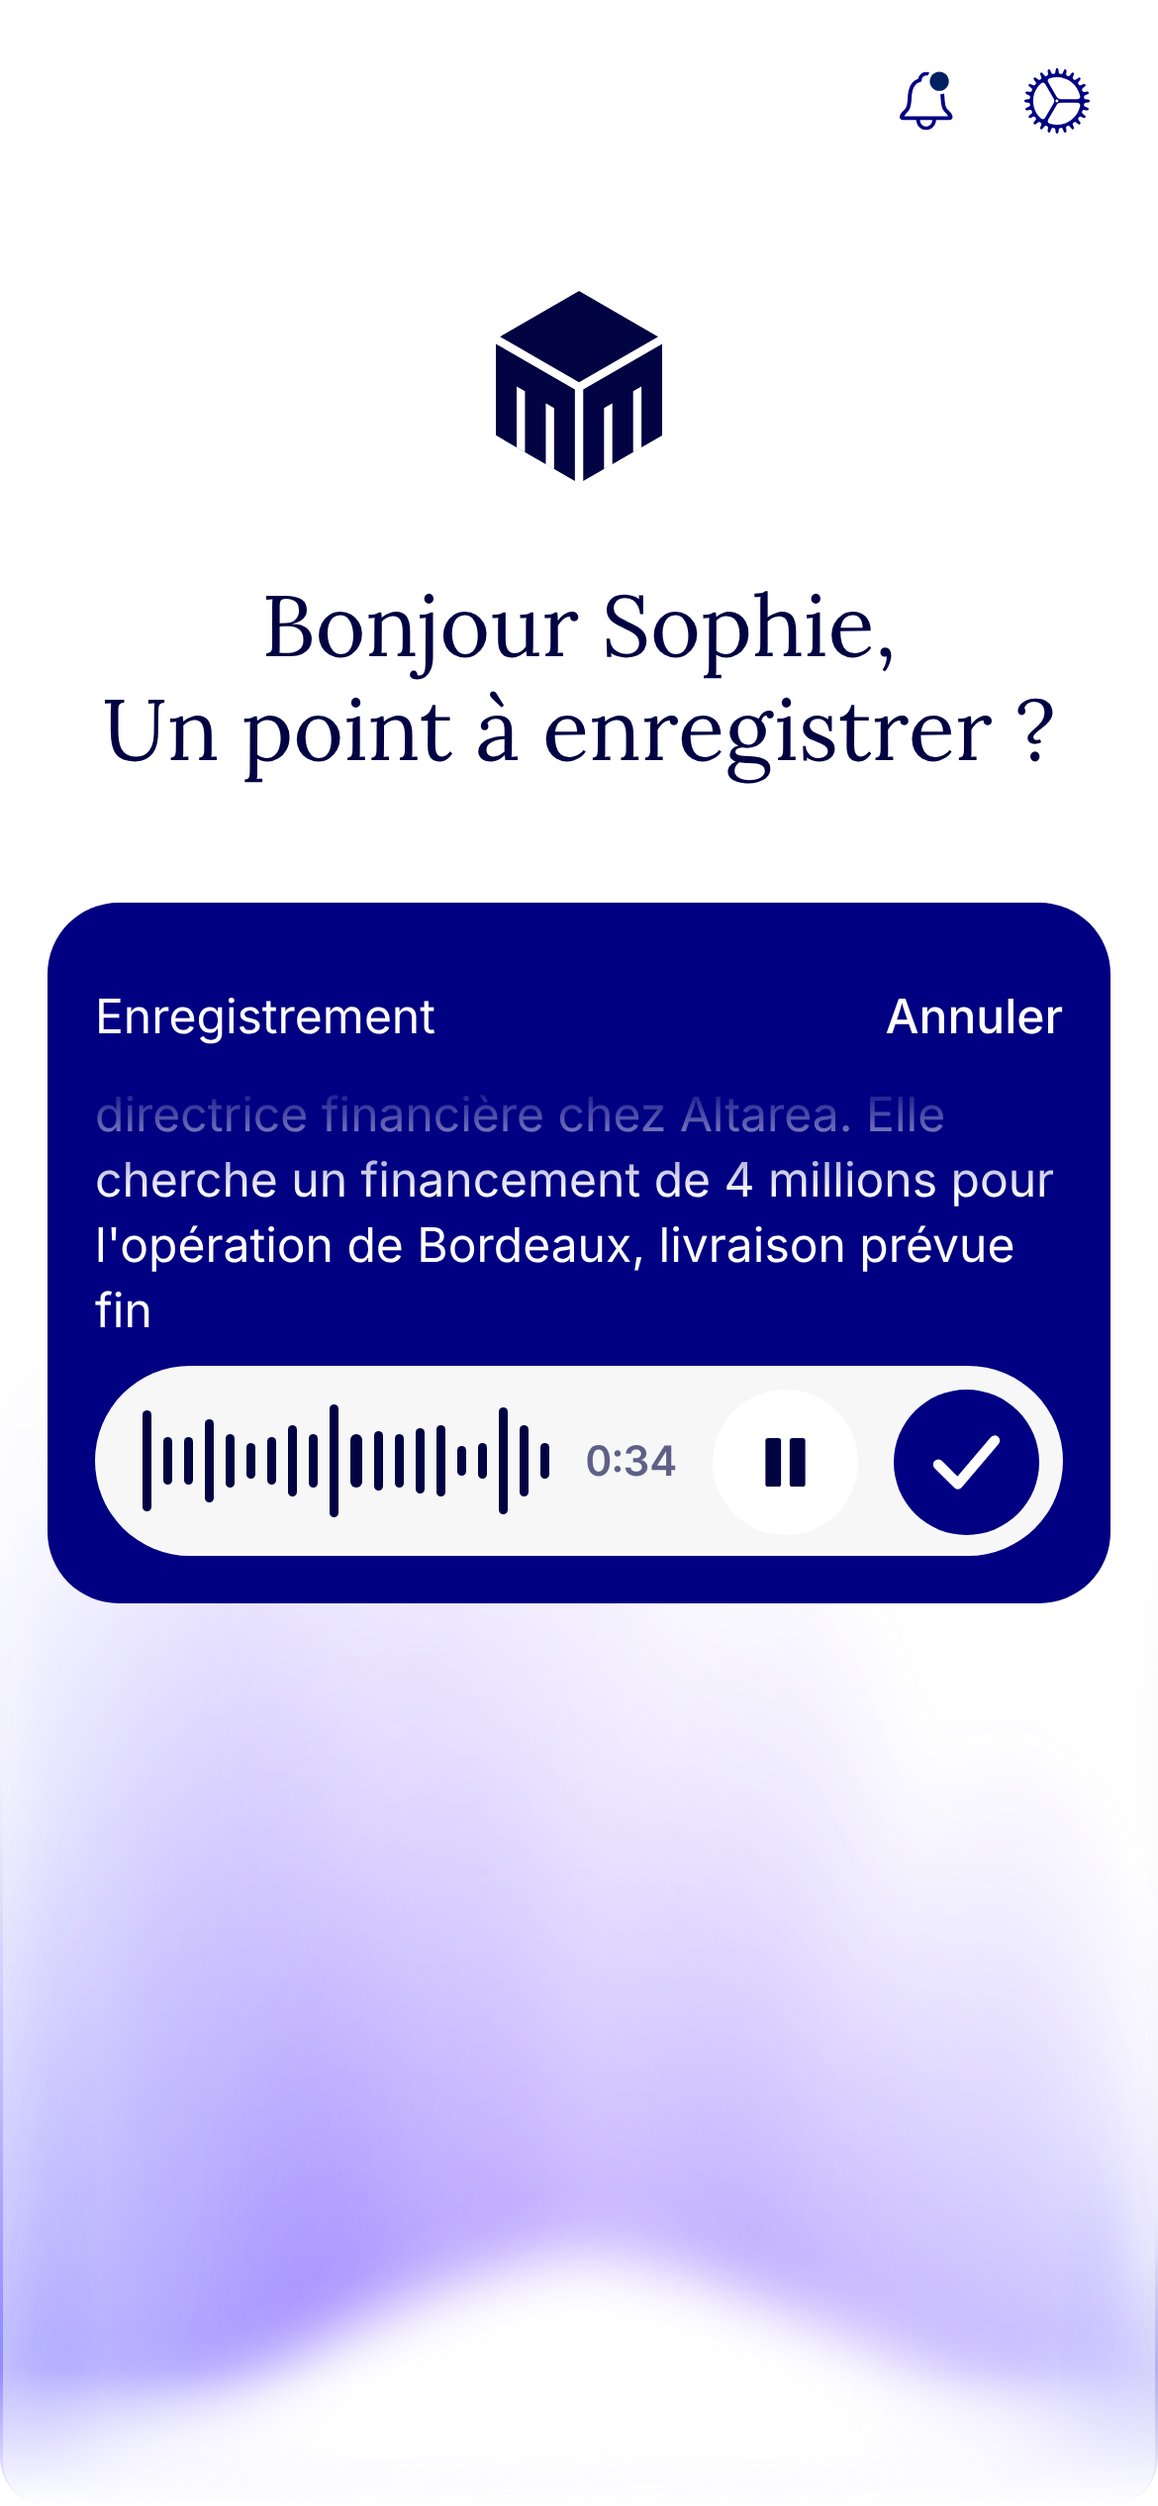
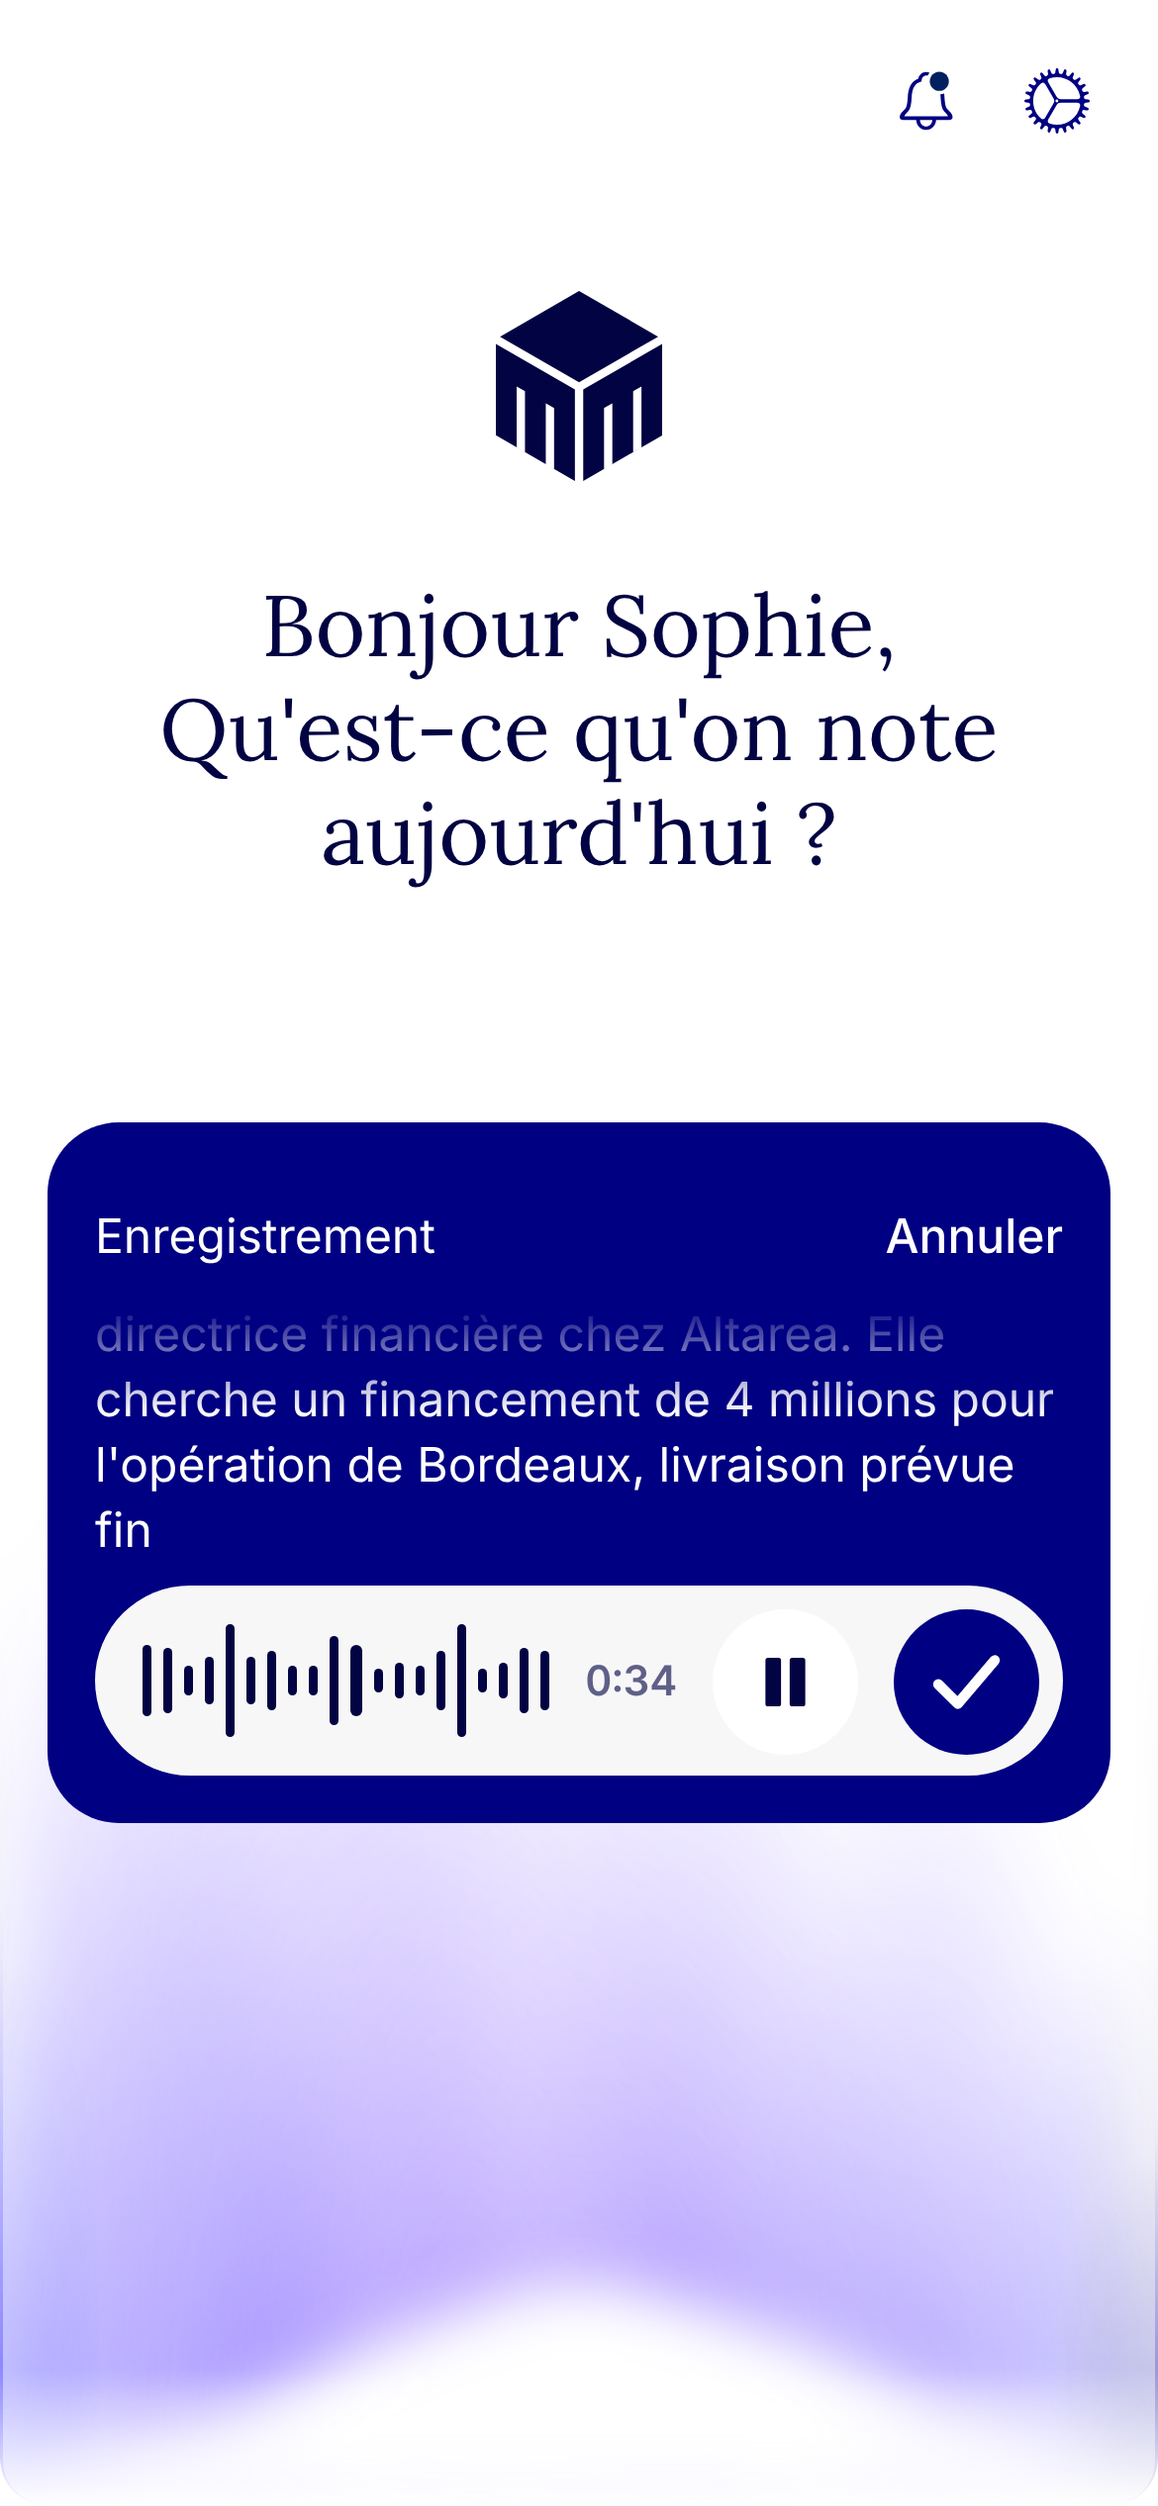
Accueil : micro dans le flux de la page, ouverture fluide, zone sûre réévaluée
Micro sur le titre : le bouton était fixe, placé par script d'après la
taille mesurée du titre ; tout ce qui change cette taille après la mesure
(police arrivée en retard, barres de Safari, retour sur la page) le
mettait sur le titre. Il est maintenant dans le flux, sous le titre :
rien n'est mesuré, le chevauchement n'est plus possible. L'espace libre
est partagé 1/4 au-dessus, 3/4 en dessous, pour qu'il reste haut.

Ouverture bloquée sur « Ouverture du micro » : le panneau grandissait en
width/height, des animations du thread principal, que le démarrage du
micro bloque parfois des secondes sur iPhone ; le texte, lui, apparaissait
(opacity, hors du thread principal) dans le cercle de 96 px. Le panneau
est désormais à sa taille dès le départ et s'ouvre en transform et
opacity seulement ; son contenu n'apparaît qu'avec lui. La lumière est
montée une fois le panneau ouvert.

Boutons sous l'heure dans l'app installée : la compensation de la zone
sûre n'était évaluée qu'au lancement ; elle l'est à chaque changement de
mise en page, et plusieurs fois dans les premières secondes.

Claude-Session: https://claude.ai/code/session_019kEgtLQiVLKPHsKT9P7op1

diff --git a/src/screens/RecordScreen.tsx b/src/screens/RecordScreen.tsx
@@ -1,4 +1,4 @@
-import { useEffect, useLayoutEffect, useMemo, useRef, useState } from "react";
+import { useEffect, useMemo, useState } from "react";
 import { createPortal } from "react-dom";
 import { VoiceBeam } from "voice-glow";
 import { Icon } from "@/components/icon";
@@ -36,30 +36,8 @@ const BEAM_DENSITY = {
   idle: 0.26,
 } as const;
 
-// The microphone is fixed, so it can grow into the recording panel in place;
-// its centre is computed rather than left to the middle of the window. On a
-// short window — a desktop browser, a phone in landscape — the middle of the
-// window is inside the greeting, and the button covered it.
-const BUTTON = 96;
-/** The open panel's height, as in index.css (.record-morph[data-open]). */
-const PANEL = 236;
-const GAP = 16;
-
-/**
- * Where the button's centre goes: the middle of the screen, as long as that
- * keeps it clear of the greeting and leaves the open panel room to fit.
- * The middle of the space under the greeting put it far down once that space
- * ran to the bottom of the screen.
- */
-function placeButton(greeting: HTMLElement | null): number {
-  const height = window.innerHeight;
-  const top = greeting ? greeting.getBoundingClientRect().bottom + greeting.closest(".t-page")!.scrollTop : 0;
-  const highest = top + GAP + BUTTON / 2;
-  const lowest = height - GAP - PANEL / 2;
-  // No room at all: under the greeting, whatever is below. The greeting is
-  // what the button must not hide.
-  return Math.max(highest, Math.min(height / 2, lowest));
-}
+/** The panel's opening, as in index.css (.record-panel). */
+const OPEN_MS = 420;
 
 const PROMPTS = ["Qu'est-ce qu'on note aujourd'hui ?", "Un point à enregistrer ?", "Une info à enregistrer ?"];
 
@@ -92,8 +70,6 @@ export function RecordScreen({
   // not interrupted by this — it holds and resumes on its own (use-recorder).
   const connectivity = useConnectivity(active);
 
-  const greetingRef = useRef<HTMLDivElement>(null);
-  const [centre, setCentre] = useState<number | null>(null);
   const blocked = !open && !recording && connectivity.status !== "online" && connectivity.status !== "checking";
   // While a bad link is being checked again, the screen stays on what it said.
   const [shownBlocked, setShownBlocked] = useState(false);
@@ -113,30 +89,15 @@ export function RecordScreen({
   // Pointer down, not click: the recording starts as the finger lands, about
   // a tenth of a second before the click would fire. The click stays for
   // keyboards and screen readers.
-  // Measured after layout and again whenever anything it depends on may have
-  // moved: the window, the greeting, the visible viewport (Safari's bars),
-  // the fonts (Lora arriving after the first paint takes the greeting from
-  // two lines to three — measured before, the button sat on the third),
-  // a return to the page or to this screen.
-  useLayoutEffect(() => {
-    const place = () => setCentre(placeButton(greetingRef.current));
-    place();
-    const observer = new ResizeObserver(place);
-    if (greetingRef.current) observer.observe(greetingRef.current);
-    observer.observe(document.documentElement);
-    window.addEventListener("resize", place);
-    window.addEventListener("pageshow", place);
-    window.visualViewport?.addEventListener("resize", place);
-    document.fonts?.addEventListener("loadingdone", place);
-    void document.fonts?.ready.then(place);
-    return () => {
-      observer.disconnect();
-      window.removeEventListener("resize", place);
-      window.removeEventListener("pageshow", place);
-      window.visualViewport?.removeEventListener("resize", place);
-      document.fonts?.removeEventListener("loadingdone", place);
-    };
-  }, [offline, active]);
+  // The glow comes once the panel is open: mounting it is heavy (blurred
+  // layers the size of the screen), and done mid opening it took frames from
+  // the panel's own animation.
+  const [beamOn, setBeamOn] = useState(false);
+  useEffect(() => {
+    if (!active || recorder.state !== "recording") return setBeamOn(false);
+    const timer = window.setTimeout(() => setBeamOn(true), OPEN_MS);
+    return () => window.clearTimeout(timer);
+  }, [active, recorder.state]);
 
   const openPanel = () => {
     if (open || offline) return;
@@ -224,7 +185,7 @@ export function RecordScreen({
         <>
           {/* On a short window the logo goes first, then the type tightens:
               the greeting and the button must both fit above the fold. */}
-          <div ref={greetingRef} className="flex flex-col items-center pt-[5vh] text-center">
+          <div className="flex flex-col items-center pt-[5vh] text-center">
             <Symbol className="h-16 text-midnight-blue [@media(max-height:640px)]:hidden" />
             <h1 className="mt-8 text-balance font-serif text-2xl [@media(max-height:640px)]:mt-0 [@media(max-height:520px)]:text-xl">
               Bonjour {firstName},
@@ -232,7 +193,60 @@ export function RecordScreen({
               {prompt}
             </h1>
           </div>
-          <div className="flex-1" aria-hidden />
+          {/* The rest of the screen, in the flow of the page, under the
+              greeting: the microphone in its middle, the panel opening over
+              it in place. Nothing is measured or positioned by script, so
+              nothing can put the button over the greeting — not fonts
+              arriving late, nor Safari's bars, nor a short window (the page
+              scrolls instead). */}
+          <div className="record-stage" data-open={open} data-quiet={quiet || undefined}>
+            <div className="record-anchor">
+              <div className="record-panel flex flex-col justify-between p-4" aria-hidden={!open} inert={!open}>
+                <div className="flex items-center justify-between">
+                  <span className="text-base text-on-accent" aria-live="polite">
+                    {recorder.state === "error"
+                      ? "Enregistrement impossible"
+                      : recorder.unavailable
+                        ? "Transcription indisponible"
+                        : recorder.hold
+                          ? "En pause, connexion perdue"
+                          : recorder.paused
+                            ? "En pause"
+                            : recorder.state === "recording"
+                              ? "Enregistrement"
+                              : "Ouverture du micro"}
+                  </span>
+                  <TextButton onClick={cancel} className="-mr-3 text-on-accent" tabIndex={open ? 0 : -1}>
+                    {recorder.state === "error" ? "Fermer" : "Annuler"}
+                  </TextButton>
+                </div>
+                {recorder.state === "error" ? (
+                  <p className="text-base text-on-accent">{recorder.error}</p>
+                ) : (
+                  <LiveText noteId={recorder.noteId} hold={recorder.hold} unavailable={recorder.unavailable} />
+                )}
+                {recorder.state !== "error" && (
+                  <LiveRecorder
+                    recording={recorder.state === "recording"}
+                    paused={recorder.paused}
+                    onTogglePause={recorder.togglePause}
+                    onFinish={finish}
+                  />
+                )}
+              </div>
+              <button
+                type="button"
+                className="record-mic"
+                aria-expanded={open}
+                aria-label="Dicter une note"
+                onPointerDown={openPanel}
+                onClick={openPanel}
+                tabIndex={open ? -1 : 0}
+              >
+                <Icon name="microphone" className="h-9" />
+              </button>
+            </div>
+          </div>
         </>
       )}
 
@@ -241,61 +255,8 @@ export function RecordScreen({
       {/* `active` as well as the state: the glow is rendered into <body>, so
           this screen leaving no longer takes it with it — opening a pending
           note mid dictation would have left it burning over the next page. */}
-      {active && recorder.state === "recording" && <Beam stream={recorder.stream} paused={recorder.paused} />}
+      {beamOn && <Beam stream={recorder.stream} paused={recorder.paused} />}
 
-      {/* Centred on the screen, growing into the recording panel. */}
-      <div
-        className="pointer-events-none fixed inset-x-0 z-20 mx-auto flex max-w-[480px] items-center justify-center px-4"
-        style={{ top: (centre ?? window.innerHeight / 2) - PANEL, height: PANEL * 2 }}
-        hidden={offline}
-      >
-        <div className="record-morph t-morph pointer-events-auto" data-open={open} data-quiet={quiet || undefined}>
-          <div className="t-morph-menu flex flex-col justify-between p-4" aria-hidden={!open}>
-            <div className="flex items-center justify-between">
-              <span className="text-base text-on-accent" aria-live="polite">
-                {recorder.state === "error"
-                  ? "Enregistrement impossible"
-                  : recorder.unavailable
-                    ? "Transcription indisponible"
-                    : recorder.hold
-                      ? "En pause, connexion perdue"
-                      : recorder.paused
-                        ? "En pause"
-                        : recorder.state === "recording"
-                          ? "Enregistrement"
-                          : "Ouverture du micro"}
-              </span>
-              <TextButton onClick={cancel} className="-mr-3 text-on-accent" tabIndex={open ? 0 : -1}>
-                {recorder.state === "error" ? "Fermer" : "Annuler"}
-              </TextButton>
-            </div>
-            {recorder.state === "error" ? (
-              <p className="text-base text-on-accent">{recorder.error}</p>
-            ) : (
-              <LiveText noteId={recorder.noteId} hold={recorder.hold} unavailable={recorder.unavailable} />
-            )}
-            {recorder.state !== "error" && (
-              <LiveRecorder
-                recording={recorder.state === "recording"}
-                paused={recorder.paused}
-                onTogglePause={recorder.togglePause}
-                onFinish={finish}
-              />
-            )}
-          </div>
-          <button
-            type="button"
-            className="t-morph-plus"
-            aria-expanded={open}
-            aria-label="Dicter une note"
-            onPointerDown={openPanel}
-            onClick={openPanel}
-            tabIndex={open ? -1 : 0}
-          >
-            <Icon name="microphone" className="h-9" />
-          </button>
-        </div>
-      </div>
     </Screen>
   );
 }

diff --git a/src/styles/index.css b/src/styles/index.css
@@ -475,36 +475,90 @@ a {
   -webkit-overflow-scrolling: touch;
 }
 
-/* ---- Record morph ---------------------------------------------------
-   Real sizes for the snippet's placeholder 40px / 183 x 172 box: a 96px
-   microphone, centred, that opens into a panel as wide as the column. The
-   button is pinned to the bottom centre instead of a corner, so it stays
-   put while the box grows to both sides. */
-.record-morph.t-morph {
+/* ---- Microphone and recording panel ---------------------------------
+   The stage is the rest of the screen under the greeting, in the flow of
+   the page, and the panel opens over the microphone in place. The anchor
+   is as tall as the open panel, so the panel can never reach up into the
+   greeting either.
+
+   The panel is laid out at its full size from the start, closed by a
+   transform: opening is transform and opacity only, which the browser runs
+   off the page's main thread. Starting the microphone holds that thread —
+   for seconds, sometimes, on an iPhone — and a panel that grew by width and
+   height froze mid way, its text spilling out of the 96px circle. Its
+   content only ever shows with the panel itself. */
+.record-stage {
+  flex: 1;
+  display: flex;
+  flex-direction: column;
+  align-items: center;
+}
+/* The free space shared a quarter above, three quarters below: the
+   microphone sits high, near the middle of the screen, on a tall phone,
+   and the stage asks for no more than the panel's height on a short one. */
+.record-stage::before,
+.record-stage::after {
+  content: "";
+  flex: 1 1 16px;
+  min-height: 16px;
+}
+.record-stage::after {
+  flex-grow: 3;
+}
+.record-anchor {
+  position: relative;
+  display: grid;
+  place-items: center;
+  width: 96px;
+  height: 236px;
+}
+.record-mic {
   width: 96px;
   height: 96px;
+  border-radius: 50%;
+  display: grid;
+  place-items: center;
   background: var(--color-navy);
   color: var(--color-on-accent);
-  --morph-r-closed: 48px;
-  --morph-r-open: 24px;
+  transition:
+    transform 260ms var(--morph-close-ease),
+    opacity 200ms var(--morph-close-ease);
 }
-.record-morph.t-morph[data-open="true"] {
+.record-panel {
+  position: absolute;
+  left: 50%;
+  top: 50%;
   width: min(calc(100vw - 32px), 448px);
   /* Room for three or four lines of live text between the status and the pill. */
   height: 236px;
+  border-radius: 24px;
+  background: var(--color-navy);
+  color: var(--color-on-accent);
+  opacity: 0;
+  transform: translate(-50%, -50%) scale(0.3);
+  pointer-events: none;
+  will-change: transform, opacity;
+  transition:
+    transform 260ms var(--morph-close-ease),
+    opacity 180ms var(--morph-close-ease);
 }
-.record-morph .t-morph-plus {
-  inset: auto auto 0 calc(50% - 48px);
-  width: 96px;
-  height: 96px;
-  color: inherit;
+.record-stage[data-open="true"] .record-panel {
+  opacity: 1;
+  transform: translate(-50%, -50%) scale(1);
+  pointer-events: auto;
+  transition:
+    transform 420ms var(--morph-ease),
+    opacity 160ms ease-out;
+}
+.record-stage[data-open="true"] .record-mic {
+  opacity: 0;
+  transform: scale(1.25);
+  pointer-events: none;
 }
 /* Reset behind a screen that has already slid away: there is nothing to
    animate for, and its clock would run against the page transition. */
-.t-morph[data-quiet],
-.t-morph[data-quiet] .t-morph-plus,
-.t-morph[data-quiet] .t-morph-plus svg,
-.t-morph[data-quiet] .t-morph-menu {
+.record-stage[data-quiet] .record-panel,
+.record-stage[data-quiet] .record-mic {
   transition: none !important;
 }
 
@@ -610,7 +664,8 @@ a {
 }
 
 @media (prefers-reduced-motion: reduce) {
-  .record-morph.t-morph {
+  .record-panel,
+  .record-mic {
     transition: none !important;
   }
 }

diff --git a/src/lib/safe-area.ts b/src/lib/safe-area.ts
@@ -32,8 +32,22 @@ function apply() {
   root.setProperty("--safe-top", `${statusBar()}px`);
 }
 
+// Evaluated whenever the layout may have changed, not once: at launch iOS
+// settles the page under or below the status bar, and reports the inset,
+// over the first moments — a single check made too early left the
+// settings and the bell under the clock for the whole session.
 export function guardSafeTop() {
   if (!isIOS() || !isStandalone()) return;
+  let frame = 0;
+  const schedule = () => {
+    cancelAnimationFrame(frame);
+    frame = requestAnimationFrame(apply);
+  };
   apply();
-  window.addEventListener("orientationchange", () => setTimeout(apply, 300));
+  for (const ms of [100, 400, 1000, 2500]) setTimeout(schedule, ms);
+  window.addEventListener("resize", schedule);
+  window.visualViewport?.addEventListener("resize", schedule);
+  window.addEventListener("orientationchange", () => setTimeout(schedule, 300));
+  window.addEventListener("pageshow", schedule);
+  document.addEventListener("visibilitychange", () => document.visibilityState === "visible" && schedule());
 }
